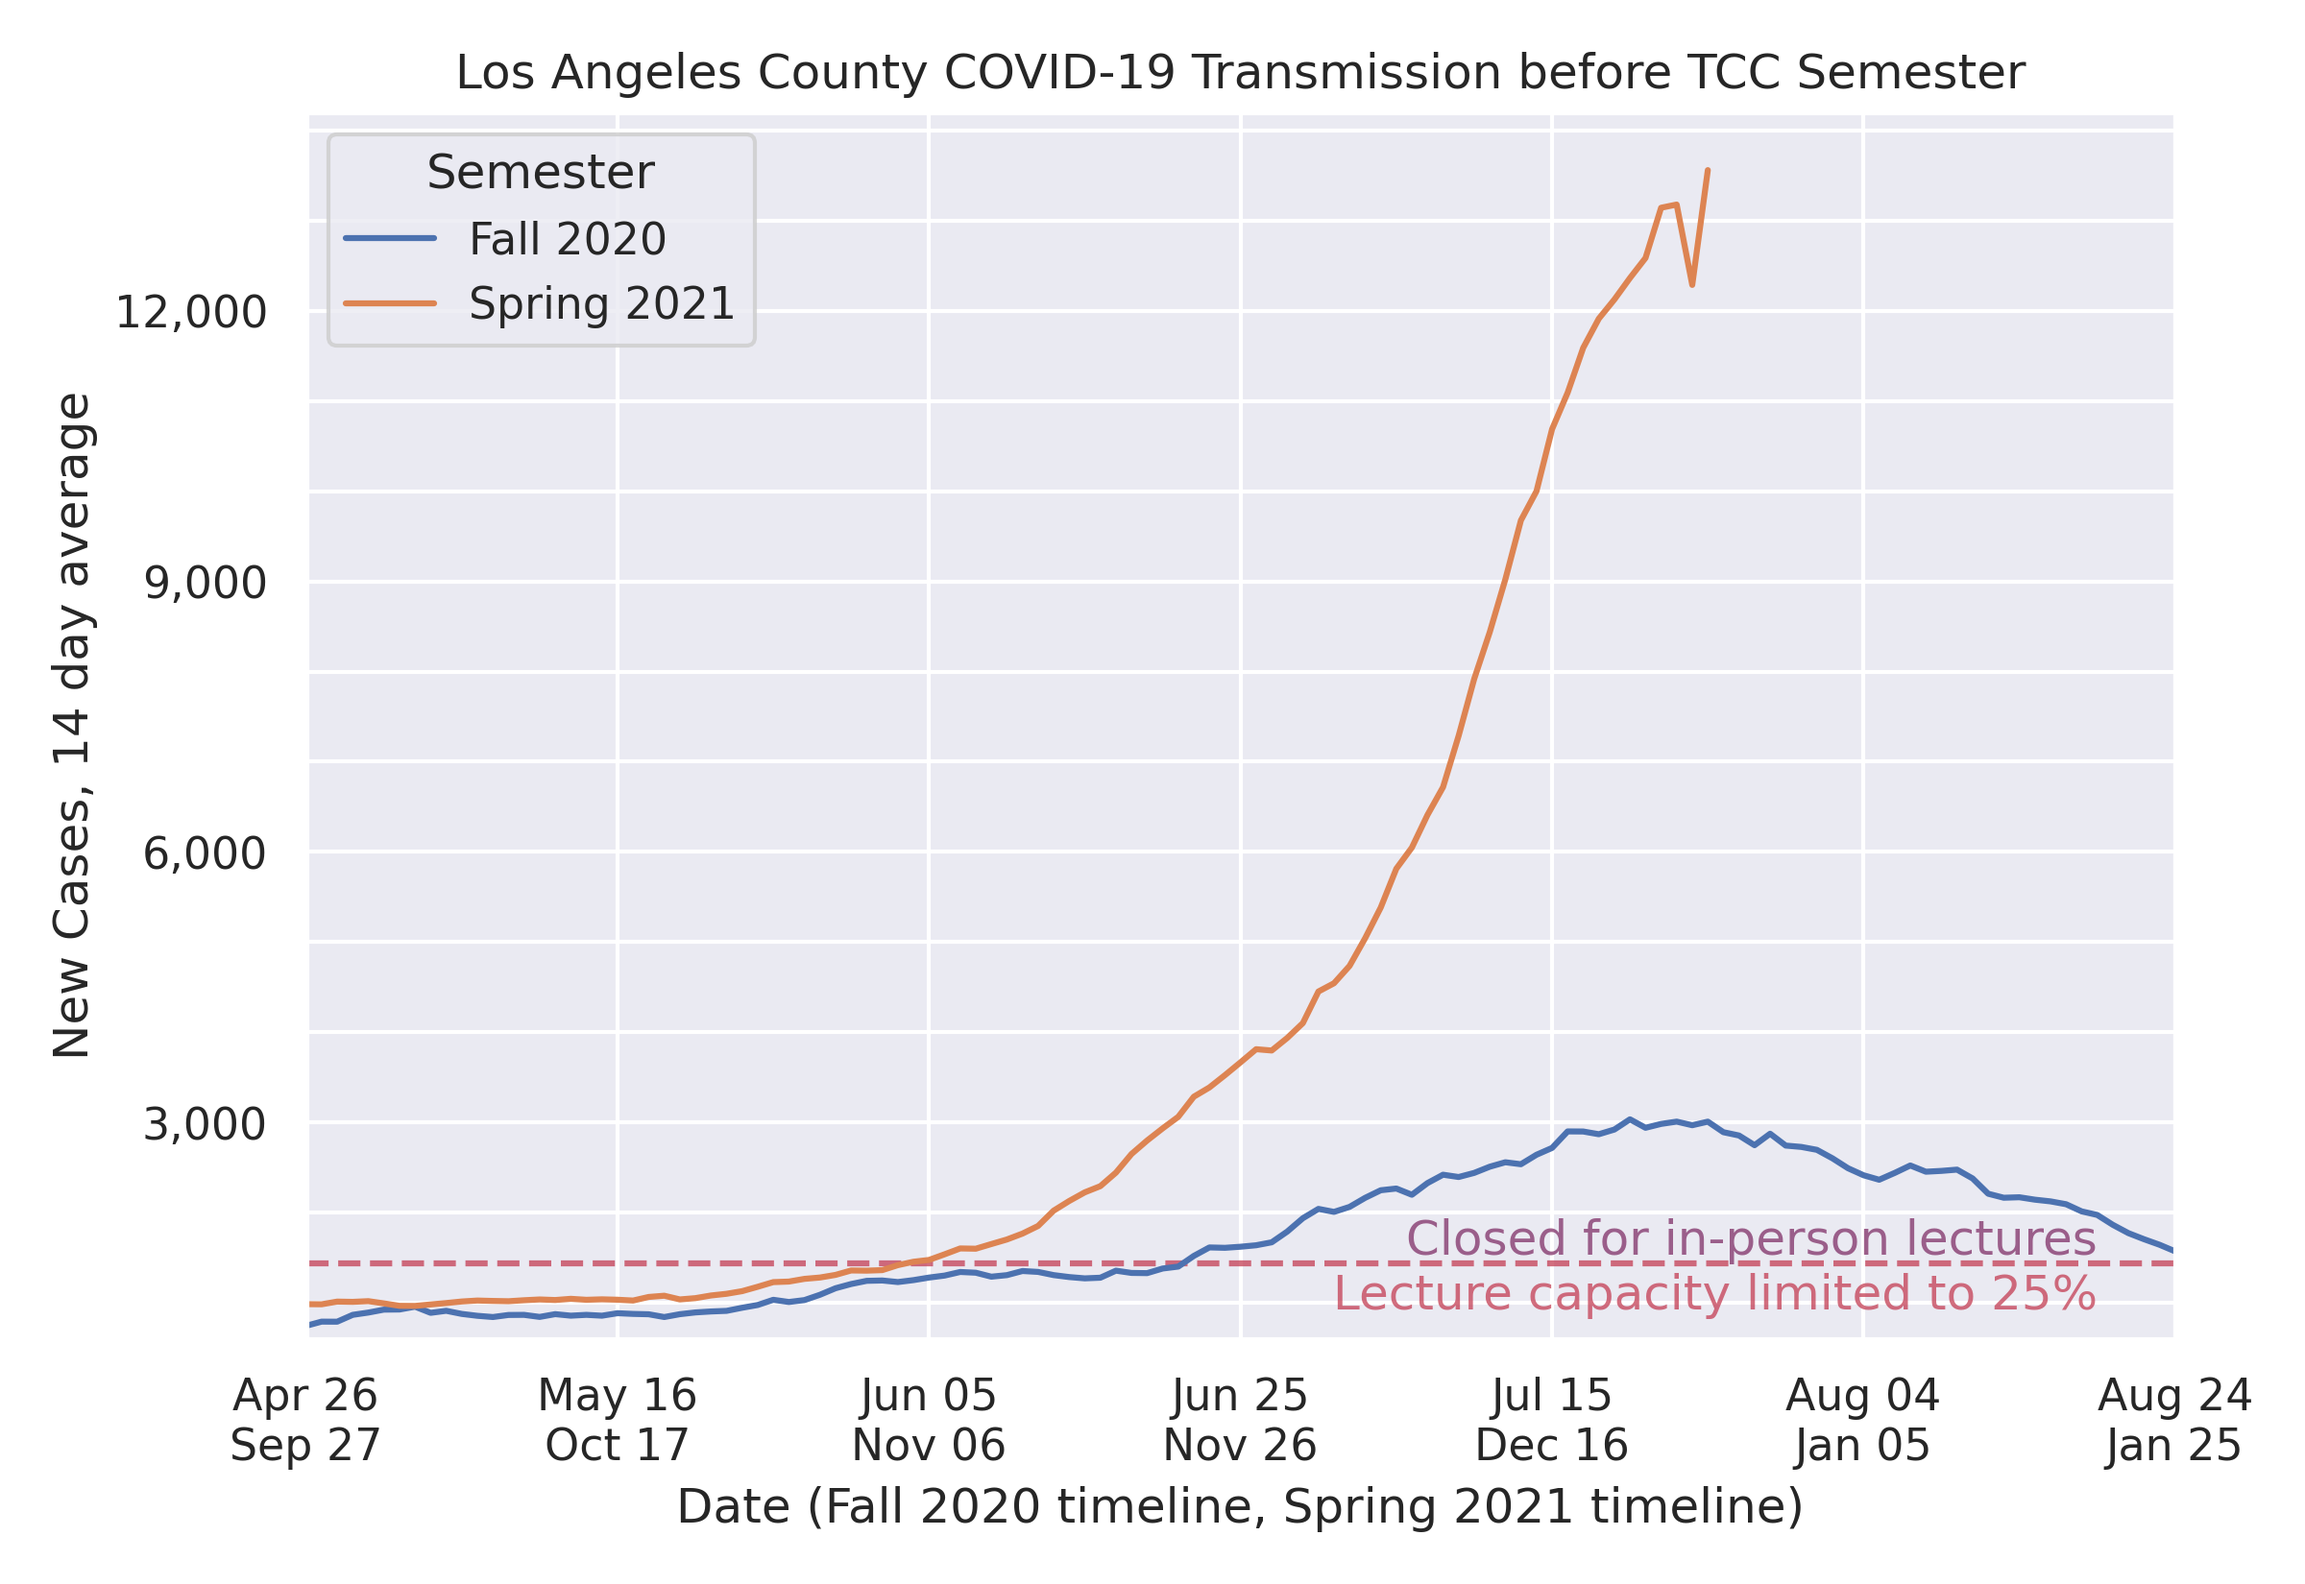
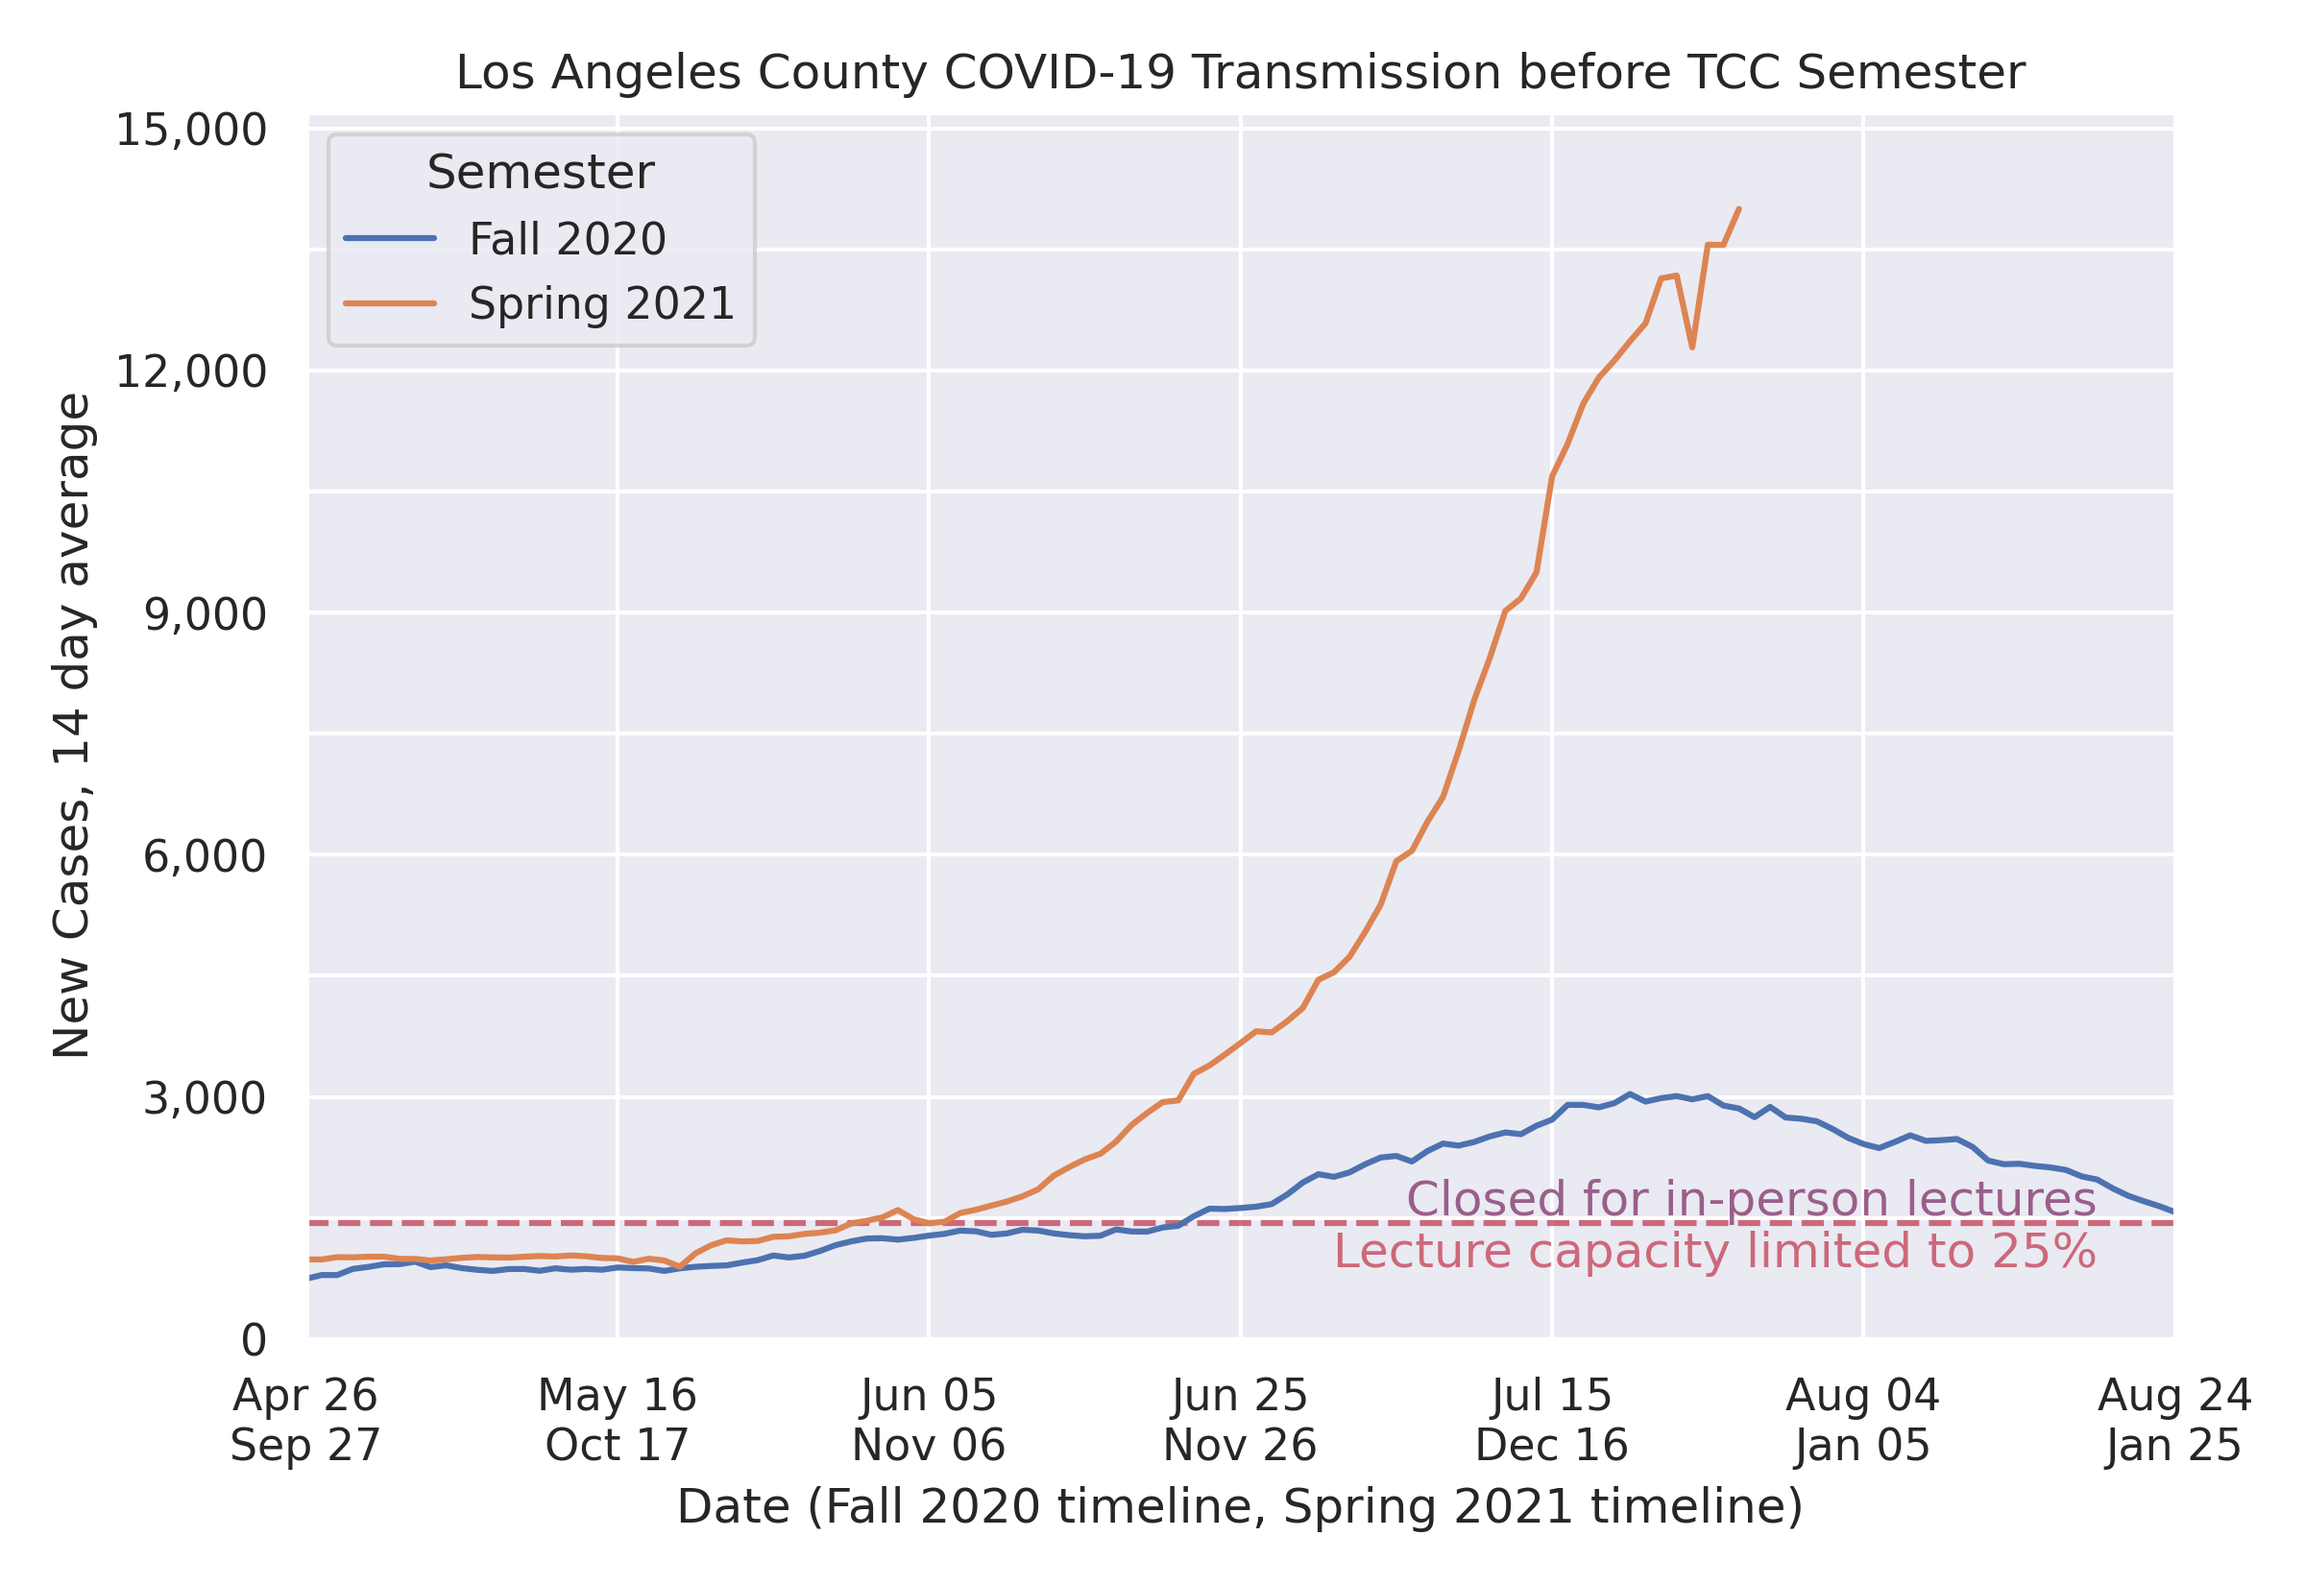
Update 2020-12-29

diff --git a/semester_start_countdown.py b/semester_start_countdown.py
@@ -99,38 +99,13 @@ fetch_ca_dataset(CA_HOSPITALIZED_URL, CA_HOSPITALIZED_CSV)
 
 df_cases = pd.read_csv(CA_CASES_CSV)
 la_cases = df_cases.loc[
-    df_cases[COUNTY]==LOS_ANGELES].drop(columns=COUNTY).reset_index(drop=True)
-la_cases.loc[:, DATE] = pd.to_datetime(la_cases.loc[:, DATE])
+    df_cases[COUNTY]==LOS_ANGELES
+].drop(columns=COUNTY).reset_index(drop=True).copy()
+la_cases[DATE] = pd.to_datetime(la_cases[DATE])
 
-bad_data_id = 198
-padding = 3
-la_cases.loc[bad_data_id, NEW_CASES] = round(
-    la_cases.loc[bad_data_id-padding:bad_data_id-1, NEW_CASES].append(
-    la_cases.loc[bad_data_id+1:bad_data_id+padding, NEW_CASES]).mean())
-
-la_cases.loc[201, NEW_CASES] = la_cases.loc[201, NEW_CASES] + 500
-la_cases.loc[218, NEW_CASES] = la_cases.loc[218, NEW_CASES] - 500
-
-la_cases.loc[214, NEW_CASES] = la_cases.loc[214, NEW_CASES] + 500
-la_cases.loc[215, NEW_CASES] = la_cases.loc[215, NEW_CASES] + 500
-la_cases.loc[216, NEW_CASES] = la_cases.loc[216, NEW_CASES] + 500
-la_cases.loc[217, NEW_CASES] = la_cases.loc[217, NEW_CASES] + 500
-la_cases.loc[218, NEW_CASES] = la_cases.loc[218, NEW_CASES] - 1000
-la_cases.loc[219, NEW_CASES] = la_cases.loc[219, NEW_CASES] - 1000
-
-la_cases.loc[221, NEW_CASES] = la_cases.loc[221, NEW_CASES] + 600
-la_cases.loc[218, NEW_CASES] = la_cases.loc[218, NEW_CASES] - 600
-
-la_cases.loc[222, NEW_CASES] = la_cases.loc[222, NEW_CASES] + 600
-la_cases.loc[220, NEW_CASES] = la_cases.loc[220, NEW_CASES] - 600
-
-# 1,500 new cases backlog reported on November 23
-la_cases.loc[249, NEW_CASES] = la_cases.loc[249, NEW_CASES] + 1500
-la_cases.loc[250, NEW_CASES] = la_cases.loc[250, NEW_CASES] - 1500
-
-# 7,000 backlog reported on December 16
-la_cases.loc[271, NEW_CASES] = la_cases.loc[271, NEW_CASES] + 7000
-la_cases.loc[273, NEW_CASES] = la_cases.loc[273, NEW_CASES] - 7000
+# Forward fill new cases for negative new cases day.
+la_cases.loc[198, NEW_CASES] = pd.NA
+la_cases[NEW_CASES].ffill(inplace=True)
 
 la_cases[NEW_CASES_AVG] = la_cases.loc[:, NEW_CASES].rolling(CASE_ROLLING_WINDOW).mean()
 
@@ -182,17 +157,17 @@ ax.text(horizontal_pad, substantial_rate-vertical_pad, substantial_message,
 ax.set_title('Los Angeles County COVID-19 Transmission before TCC Semester')
 sns.lineplot(x=DAYS_UNTIL_SEMESTER, y=NEW_CASES_AVG, hue=SEMESTER, data=df_la, ax=ax)
 
-tick_step = 1000
+tick_step = 1500
 y_max = chart_upper_bound(df_la[NEW_CASES_AVG], tick_step, 200)
 ax.set_yticks(list(range(0, y_max, tick_step)))
-ax.set_yticklabels([f'{int(x):n}' if x%1_500==0 else '' for x in ax.get_yticks()])
+ax.set_yticklabels([f'{int(x):n}' if x%3_000==0 else '' for x in ax.get_yticks()])
 
 ax.set_xlabel(X_AXIS_LABEL)
 ax.set_ylabel(NEW_CASES_AVG)
 ax.set_xlim(120, 0)
 ax.xaxis.set_major_formatter(FuncFormatter(date_axis_text))
 # ax.set_ylim(moderate_rate-vertical_pad-250, df_la[NEW_CASES_AVG].max()+100)
-ax.set_ylim(600, y_max)
+ax.set_ylim(0, y_max)
 ax.legend(loc='upper left', title=SEMESTER)
 
 fig.savefig('docs/semester-start-v-new-cases.png')
@@ -215,7 +190,7 @@ ax.plot(DAYS_UNTIL_SEMESTER, HOSPITALIZED_CONFIRMED_AVG, color=sns.color_palette
 tick_step = 1000
 y_max = chart_upper_bound(df_la[HOSPITALIZED_ALL_AVG], tick_step, 200)
 ax.set_yticks(list(range(0, y_max, tick_step)))
-ax.set_yticklabels([f'{int(x):n}' if x%1e3==0 else '' for x in ax.get_yticks()])
+ax.set_yticklabels([f'{int(x):n}' if x%2_000==0 else '' for x in ax.get_yticks()])
 
 ax.set_xlabel(X_AXIS_LABEL)
 ax.xaxis.set_major_formatter(FuncFormatter(date_axis_text))
